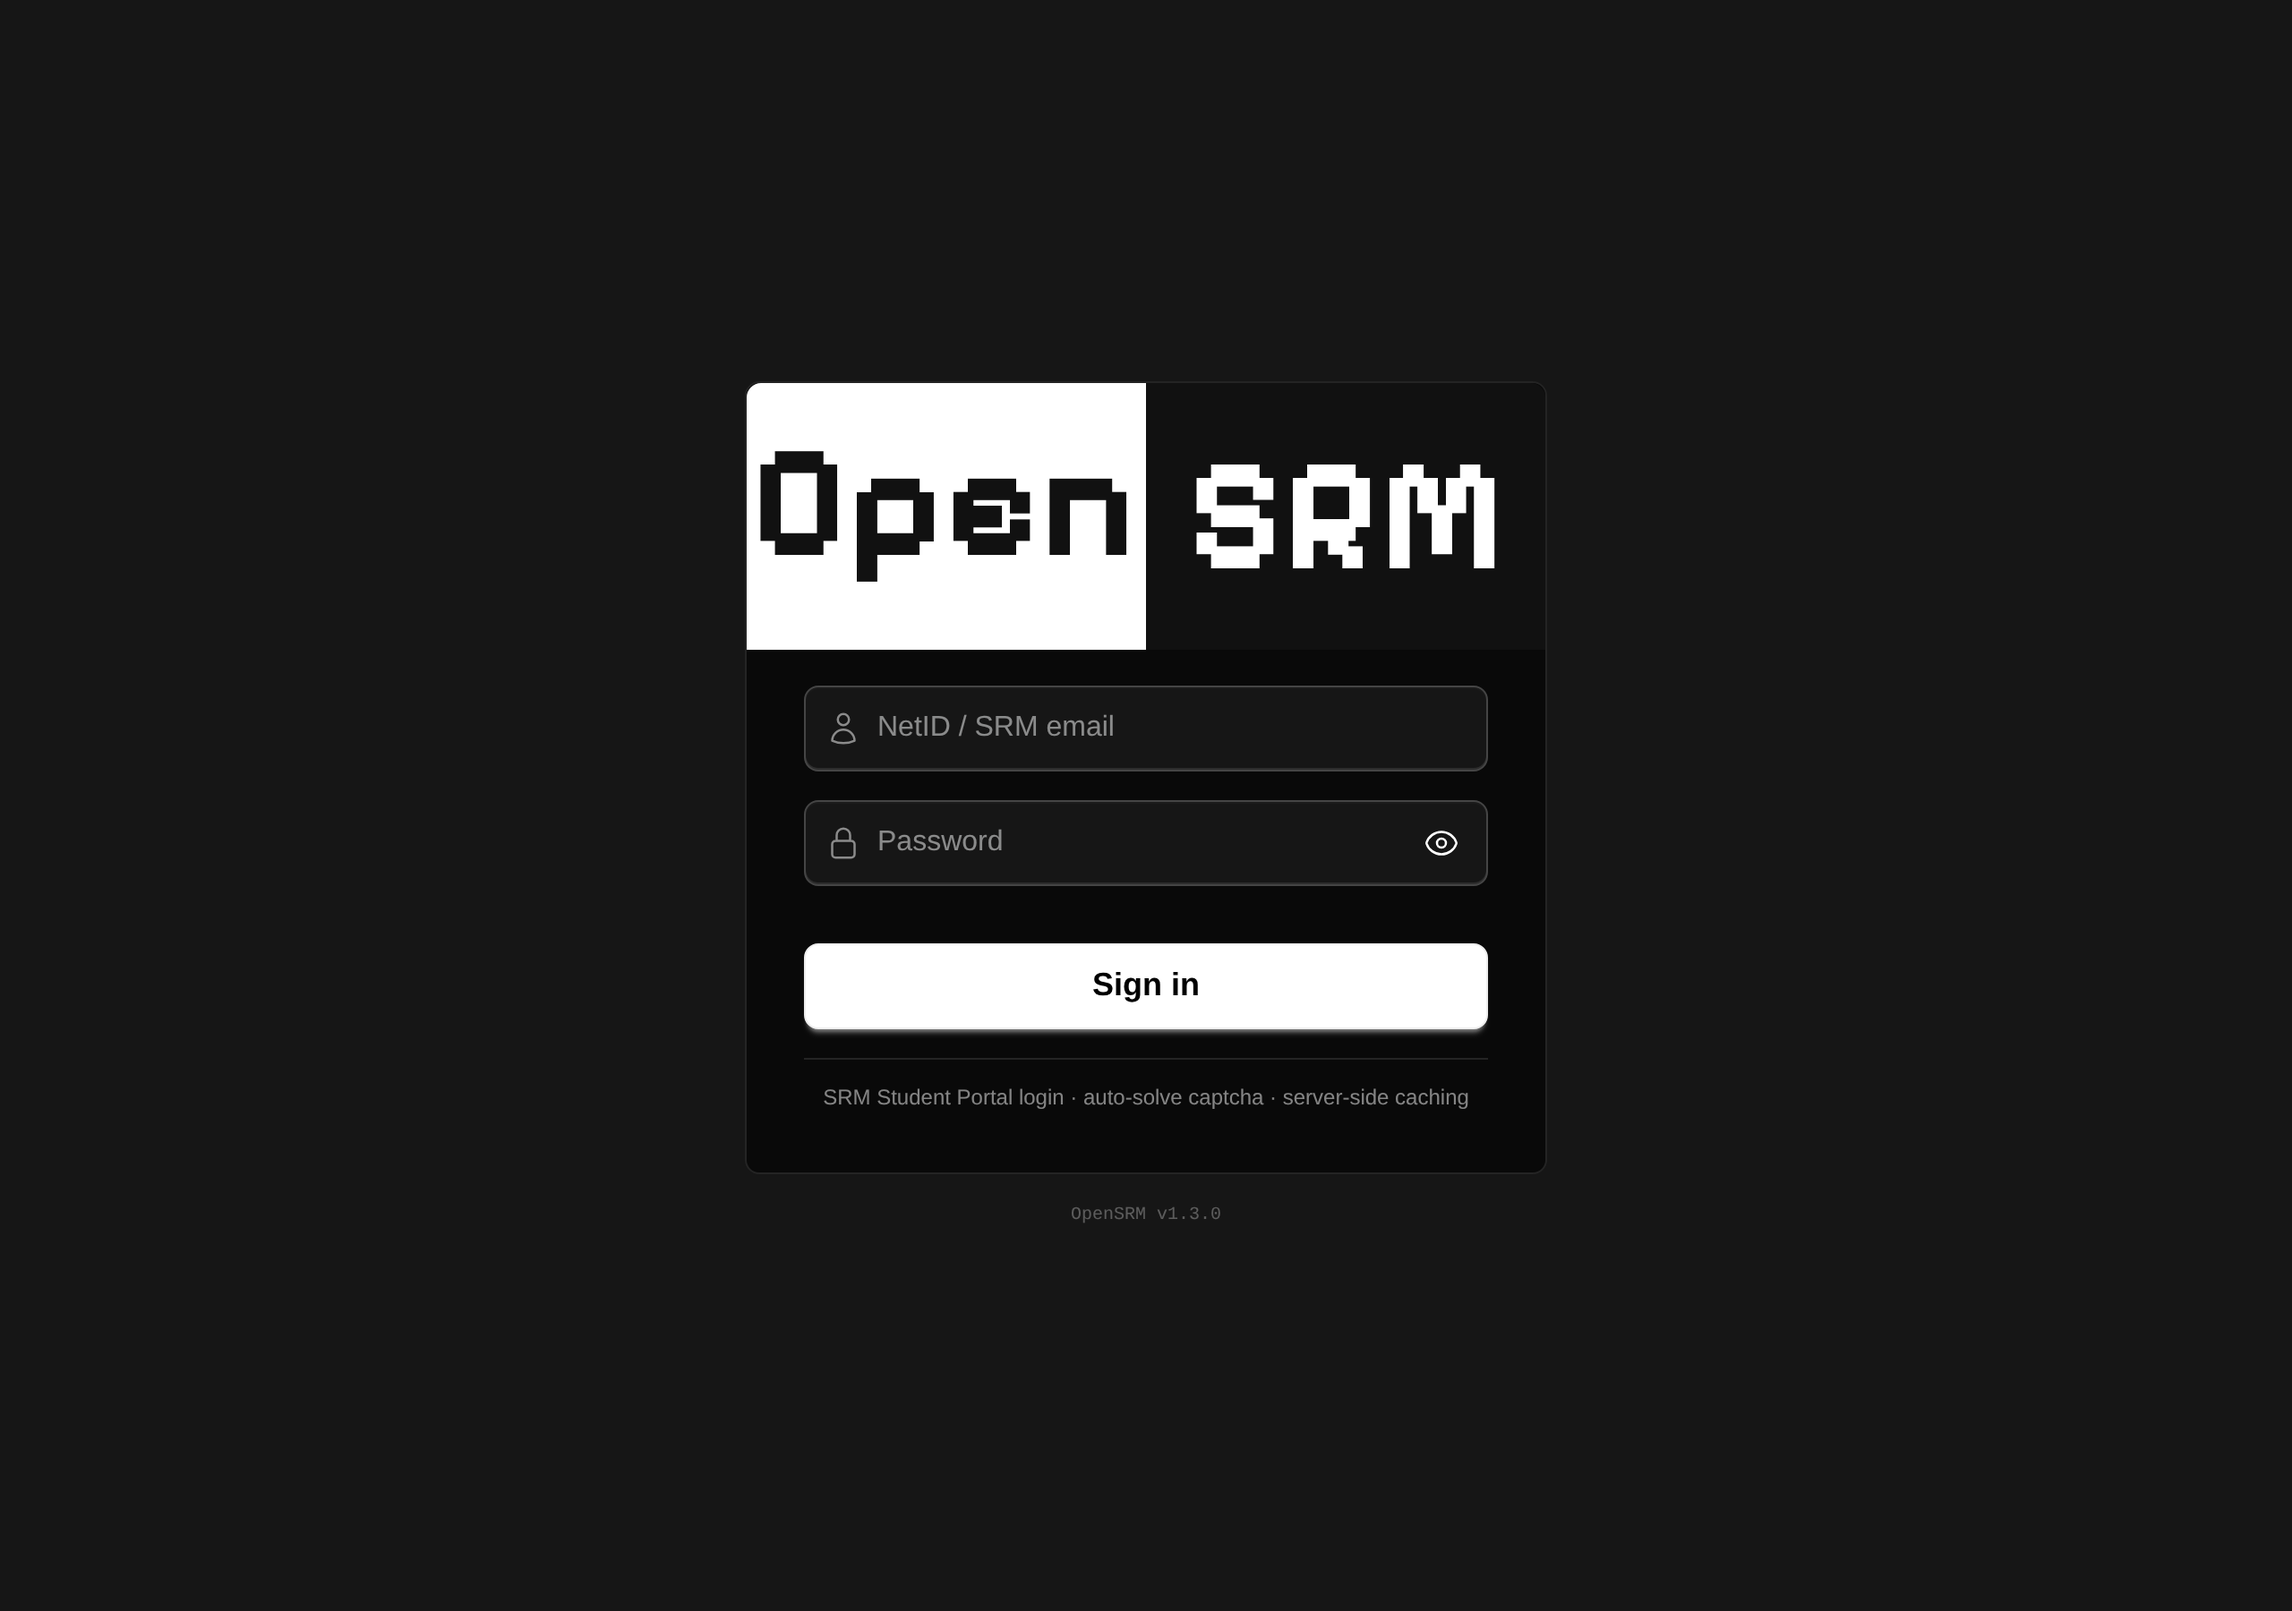
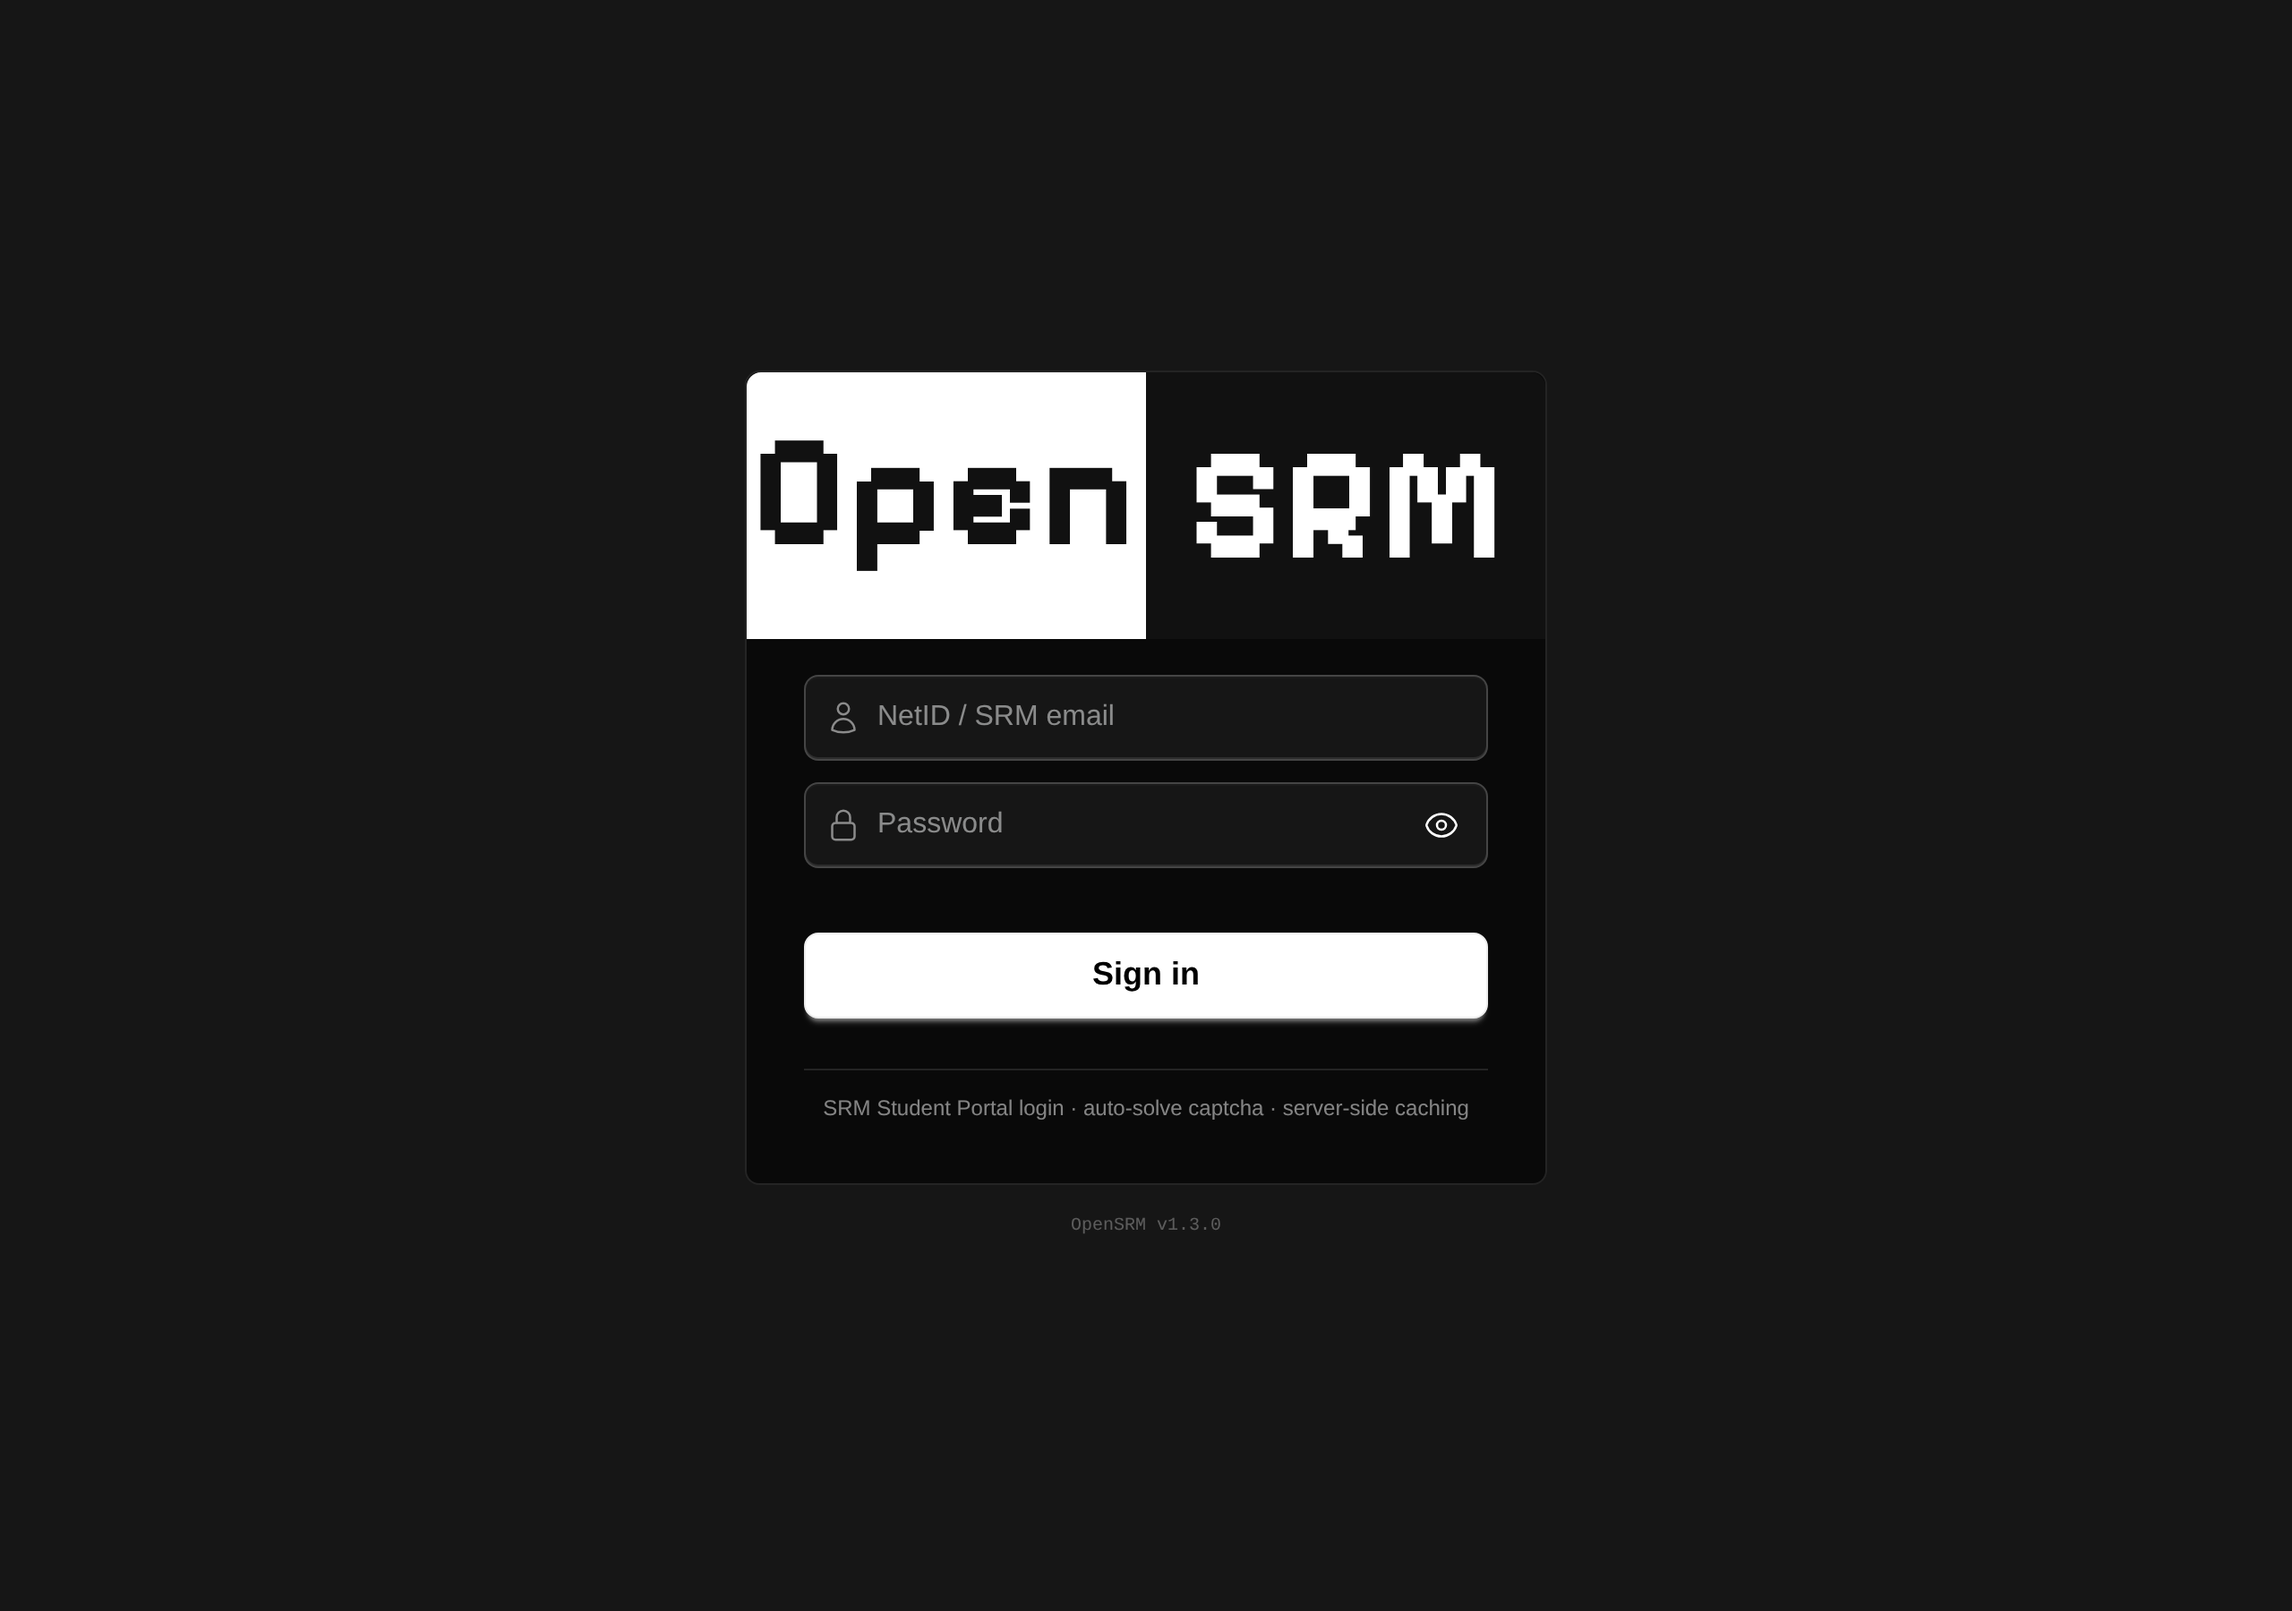
fix(login): rank the card's vertical gaps by relationship, not one flat gap
The form carried a single `gap-4` on every child, so every vertical pause
was 16px — consistency without hierarchy. Proximity is what tells a reader
which things belong together, so gap size has to encode the relationship.

Ranks, mapped onto the DESIGN §5 4px scale (no new spacing values):
- 0     attached   password field -> its Caps Lock hint row
- 8     feedback   Sign in -> status/progress (card-body gap-2): the status
                   reports on that button, so it hugs it tighter than the
                   peer fields are to each other
- 12    peers      NetID -> Password (gap-3, one credential group)
- 20    group      credential group -> Sign in (mt-5, DESIGN's "mb-5 between
                   blocks") and status block -> footer (gap-2 + mt-3)
- 40    section    Sign in -> footer text measured end to end (20 whitespace
                   + rule + pt-3), the loudest pause in the card

Strictly ordered: 0 < 8 < 12 < 20 < 40. Horizontal gutters stay uniform —
the column is one unit — and card padding (16/24 mobile, 20/32 desktop)
stays larger than the 12px gap inside the group. DESIGN §5 now states the
ranking rule so the card cannot be flattened again.

Verified: rhythm audit (18 checks at 1280x900 and 390x844) asserts the rank
order, the 4px scale, the uniform horizontal gutter and outer-padding >
inner-gap — ALL PASS on both viewports. states.py 13/13, dut.py metrics
unchanged (16px font, 44px toggle, floating label 0 -> 1), verify76 70/71
[…]

diff --git a/app/templates/login.html b/app/templates/login.html
@@ -43,8 +43,10 @@
         </figure>
         <div class="card-body p-6 sm:p-8 pt-4 sm:pt-5">
 
-          <!-- Form -->
-          <form id="f" class="flex flex-col gap-4">
+          <!-- Form. Vertical gaps are RANKED by relationship, never uniform
+               (DESIGN §5 rhythm, Gestalt proximity): attached 0 < feedback 8
+               < peers 12 < group/section 20. Horizontal gutter stays uniform. -->
+          <form id="f" class="flex flex-col">
 
             <!-- NetID / Email — floating label + leading icon (DESIGN §4.6) -->
             <label class="floating-label w-full" for="netid">
@@ -61,8 +63,9 @@
               <span>NetID / Email</span>
             </label>
 
-            <!-- Password — floating label + leading icon + show/hide toggle -->
-            <div>
+            <!-- Password — floating label + leading icon + show/hide toggle.
+                 mt-3 (12px) = peer of the NetID field, same group -->
+            <div class="mt-3">
               <div class="relative">
                 <label class="floating-label w-full" for="pw">
                   <svg xmlns="http://www.w3.org/2000/svg" fill="none" viewBox="0 0 24 24"
@@ -96,22 +99,25 @@
               <p id="caps" class="h-4 text-right text-xs leading-4 text-warning" aria-live="polite"></p>
             </div>
 
-            <!-- Submit button -->
-            <button type="submit" id="b" class="btn btn-accent btn-lg w-full">
+            <!-- Submit button: mt-5 (20px) — the credential group ends here,
+                 the action is a different group (DESIGN §5 "mb-5 between blocks") -->
+            <button type="submit" id="b" class="btn btn-accent btn-lg w-full mt-5">
               <span class="loading loading-spinner loading-sm hidden" id="loginSpinner"></span>
               <span id="btnLabel">Sign in</span>
             </button>
 
           </form>
 
-          <!-- Status message: natural height at rest (tightens button → footer gap) -->
+          <!-- Status/progress: card-body gap-2 (8px) hugs them to the button they
+               report on — attached feedback, tighter than peer fields. -->
           <div id="status" role="alert" aria-live="polite" class="text-center text-sm"></div>
           <div id="progressWrap" class="hidden">
             <progress id="progressBar" class="progress w-full" max="100" value="0"></progress>
           </div>
 
-          <!-- One-line what-this-is — inside the card, at its bottom -->
-          <div class="text-center text-xs text-base-content/50 leading-relaxed border-t border-base-300 pt-3">
+          <!-- Section break: mt-3 (12px) on top of the card-body gap (8px) = 20px of
+               pause before the rule, then pt-3 inside it — loosest gap in the card. -->
+          <div class="mt-3 text-center text-xs text-base-content/50 leading-relaxed border-t border-base-300 pt-3">
             SRM Student Portal login · auto-solve captcha · server-side caching
           </div>
 

diff --git a/DESIGN.md b/DESIGN.md
@@ -385,6 +385,7 @@ Meaning map: current class = `success` border + 8% tint + "Now" badge · next/so
 
 - **Mobile-first single column.** Dashboard container `max-w-3xl mx-auto px-4 py-5`. Login is a centered card, `w-full max-w-md`, on `min-h-[100dvh]`.
 - **Rhythm (the 4px scale, in use):** `gap-2` / `gap-3` inside and between cards · `mb-5` between blocks · card padding `p-4` (`p-5` for the hero, `p-0` for list cards). Don't introduce new spacing values.
+- **Vertical gaps are RANKED by relationship, never uniform** (Gestalt proximity — equal gaps everywhere give consistency without hierarchy). Same 4px scale, ordered tight → loose: **0** attached (a field and its own hint/error) → **`gap-2` 8px** feedback that reports on one element (status under its button) → **`gap-3` 12px** peers inside a group (field ↔ field) → **`mb-5` 20px** group break (credential group → action, content → footer), then a rule + `pt-3` for a section. A card must show ≥3 of these tiers in order. Horizontal gutters stay uniform — the column is one unit — and card padding must stay larger than the gaps inside it. Worked example: the login card, audited end-to-end as 0 < 8 < 12 < 20 < 40.
 - **Section headings:** `text-base font-semibold mb-3`.
 - **Breakpoints:** design at 375px first. `sm` (640) switches the course grid to 2 columns and reveals the "Refresh" label. `lg` (1024) goes to 3 columns. The content column never grows past `max-w-3xl`.
 - **Touch targets ≥ 44px** for anything a thumb must hit (README requirement). `btn` is 40px and `btn-sm` 32px, which is acceptable for toolbar actions only; use `btn-lg` (48px) or `min-h-11` for main actions and tappable rows.
